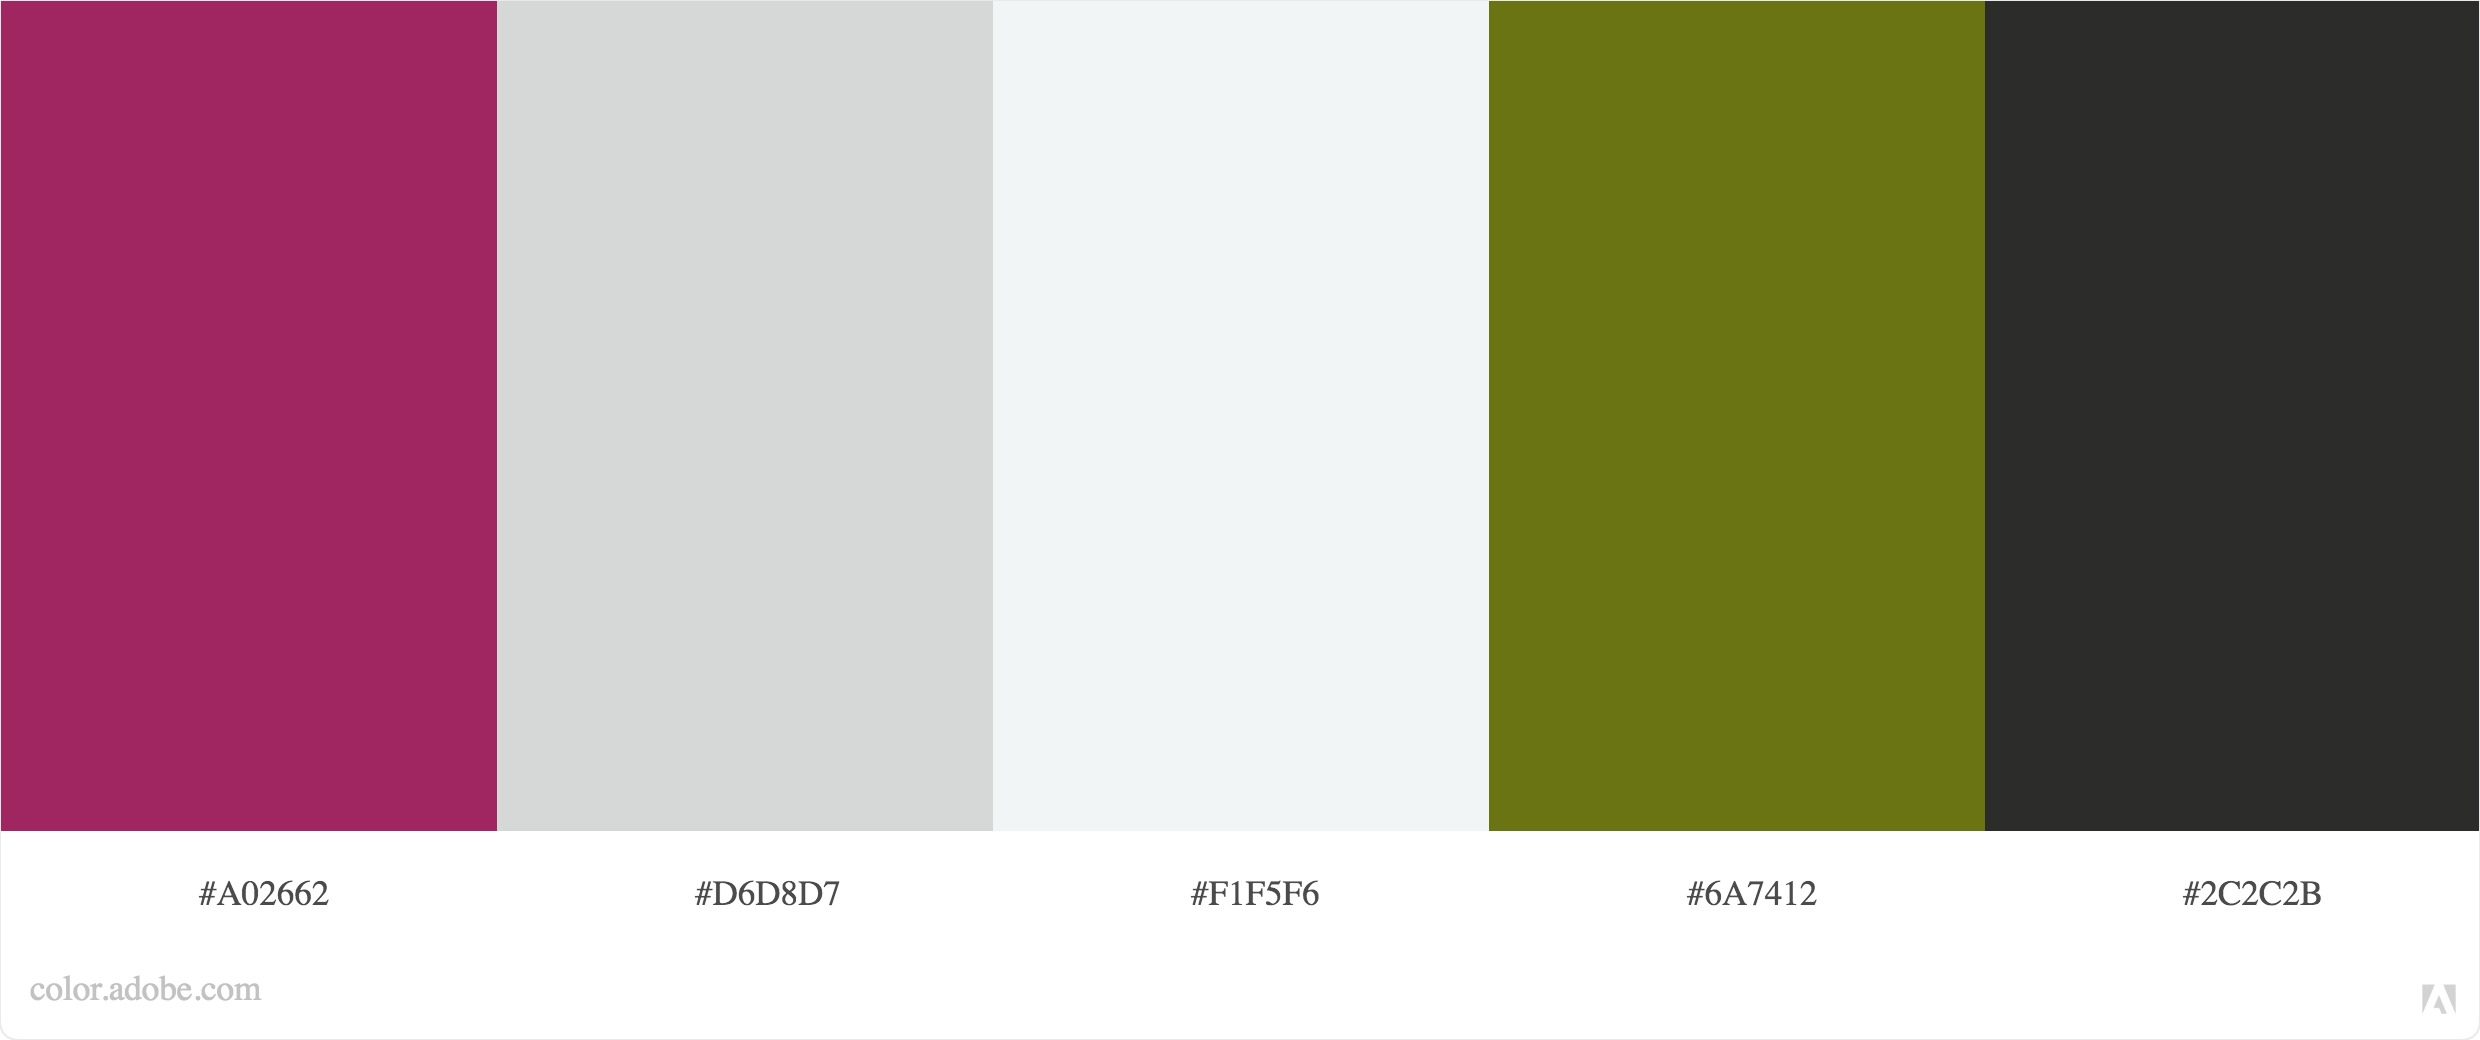
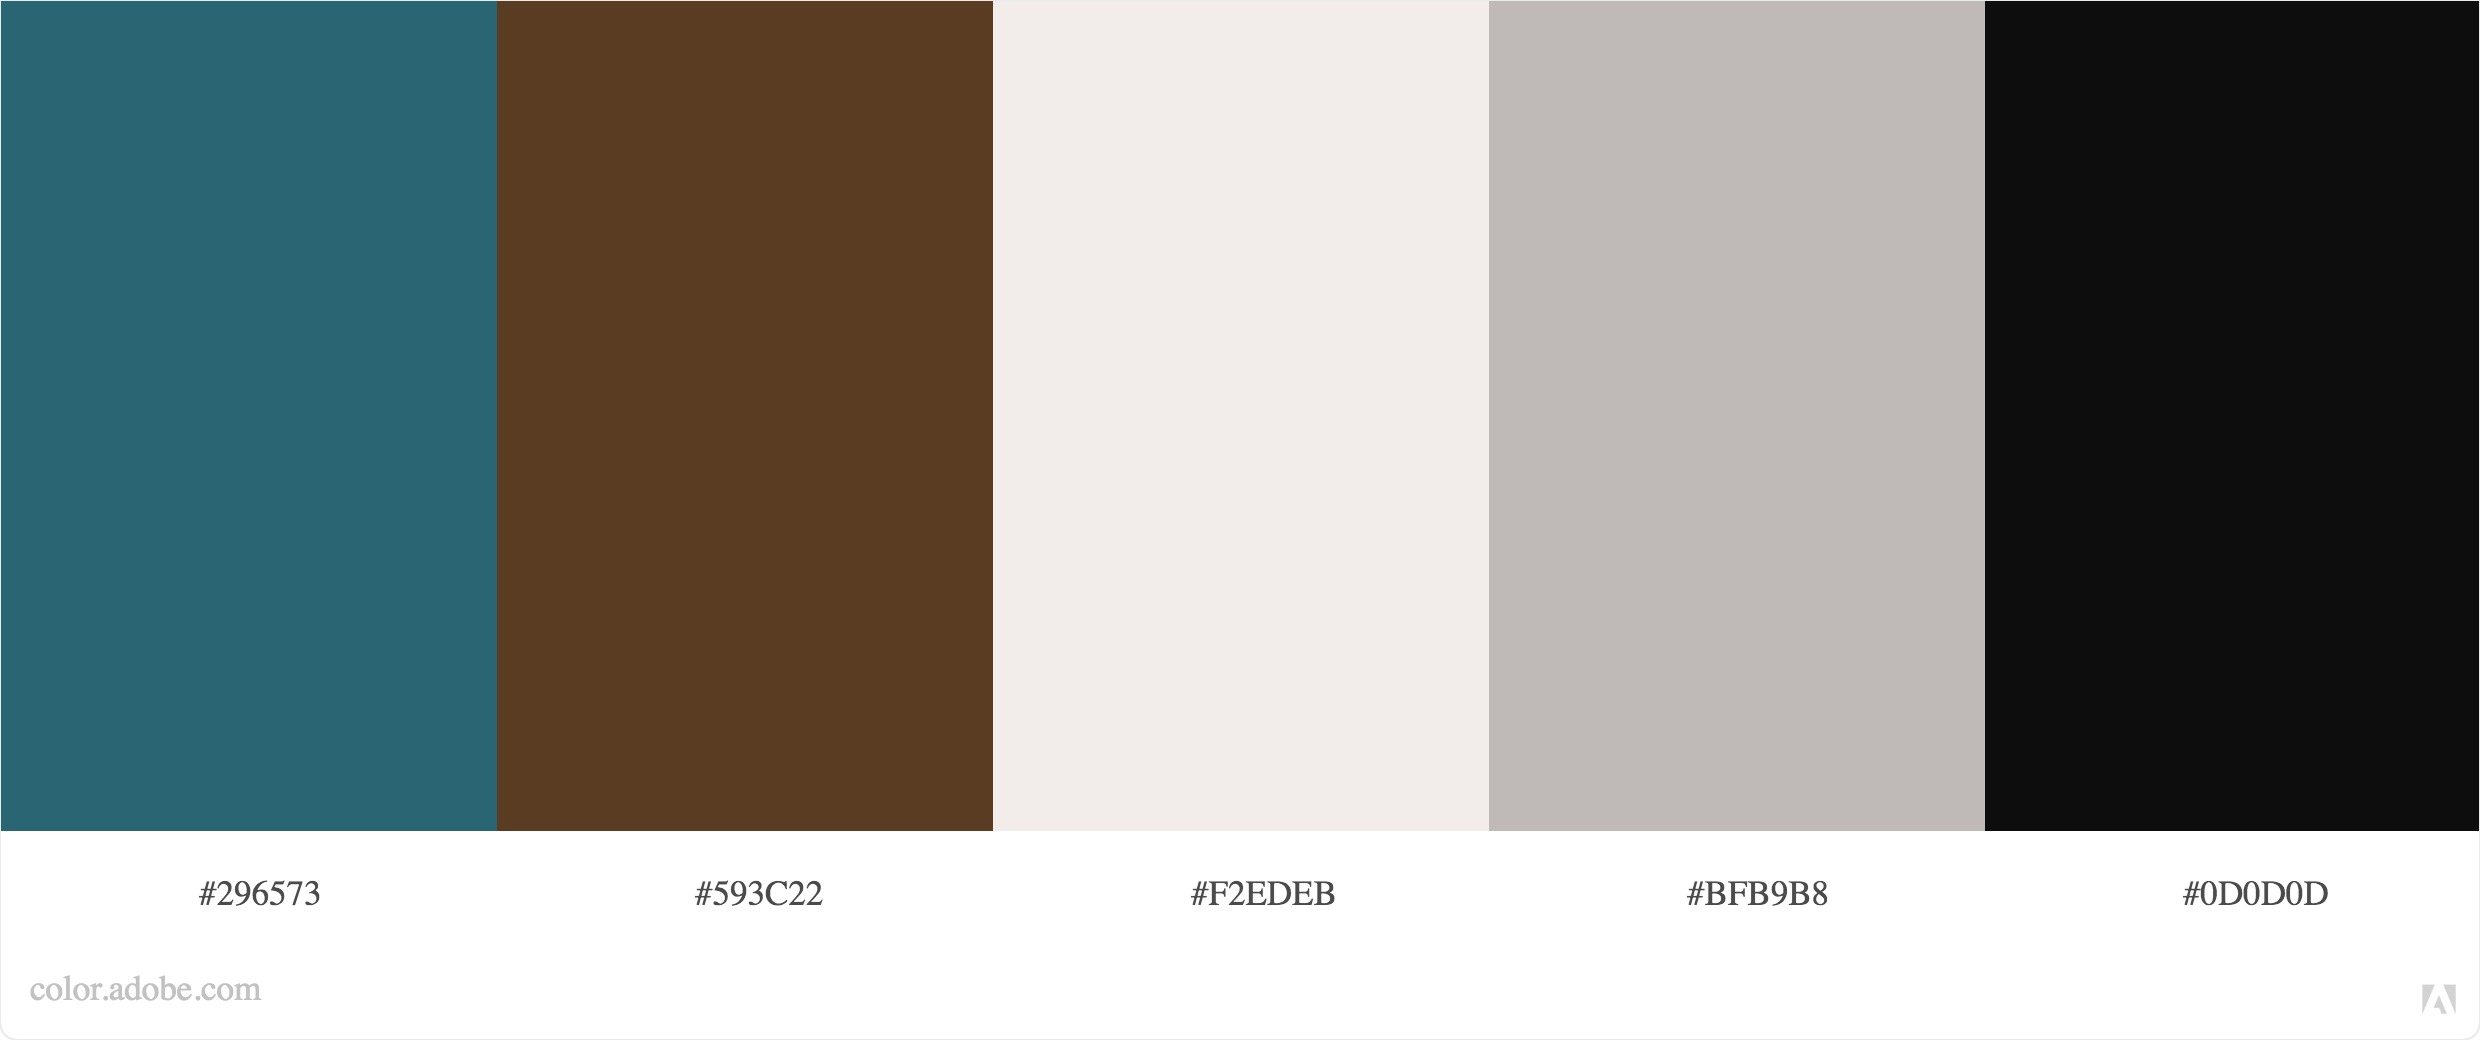
Update index html & css - hero images

diff --git a/index.html b/index.html
@@ -16,7 +16,7 @@
     <link rel="stylesheet" href="https://use.fontawesome.com/releases/v5.15.1/css/all.css"
         integrity="sha384-vp86vTRFVJgpjF9jiIGPEEqYqlDwgyBgEF109VFjmqGmIY/Y4HV4d3Gp2irVfcrp" crossorigin="anonymous">
     <link rel="preconnect" href="https://fonts.gstatic.com">
-    <link href="https://fonts.googleapis.com/css2?family=Open+Sans:wght@300;400&family=Poppins&display=swap"
+    <link href="https://fonts.googleapis.com/css2?family=Open+Sans:wght@300;400;500;600;700;800;900&family=Poppins:wght@300;400;500;600;700;800;900&display=swap"
         rel="stylesheet">
     <link rel="stylesheet" href="./assets/css/style.css">
 </head>
@@ -29,7 +29,7 @@
     bg-light navbar-light  
     -->
     <header class="container-fluid">
-        <nav class="navbar fixed-top navbar-expand-sm bg-grey txt-dark">
+        <nav class="navbar fixed-top navbar-expand-sm bg--dark navbar-dark">
             <div class="container-fluid ">
                 <a href="/" class="navbar-brand">Katsit London</a>
 
@@ -66,14 +66,14 @@
     <section class="container-fluid hero-background">
         <div class="row">
             <div class="col-12">
-                <div class="jumbotron jumbotron-fluid jumbotron-container txt-white">
+                <div class="jumbotron jumbotron-fluid jumbotron-container txt--white">
                     <div class="container">
                         <h3 class="display-5">Katsit London</h3>
-                        <hr class="my-4 bg-white">
+                        <hr class="my-4 bg--white">
                         <p>Professional & Reliable Cat-sitting Services!</p>
                         <p>Arrange a meet & greet to day to get 10% off your next booking</p>
                         <p class="lead">
-                            <a class="btn bg-fushia txt-white" href="#" role="button">Contact us</a>
+                            <a class="btn bg--blue txt--white" href="#" role="button">Contact us</a>
                         </p>
                     </div>
                 </div>
@@ -83,18 +83,18 @@
 
     <section class="container-fluid features">
         <div class="row">
-            <div class="col-12 section-heading txt-fushia">
+            <div class="col-12 section-heading txt--fushia">
                 <h2>Why use Katsit?</h2>
-                <hr class="section-divider bg-fushia">
+                <hr class="section-divider bg--fushia">
             </div>
         </div>
         <div class="row">
             <div class="col-sm-12 col-md-6">
                 <div class="row">
-                    <div class="col-1"><i class="fas fa-paw icon txt-fushia"></i></div>
+                    <div class="col-1"><i class="fas fa-paw icon txt--fushia"></i></div>
                     <div class="col-11">
                         <h4>For the comfort of your cat</h4>
-                        <hr class="bg-dark">
+                        <hr class="bg--fushia">
                         <p>Text here</p>
                     </div>
                 </div>
@@ -102,11 +102,11 @@
             <div class="col-sm-12 col-md-6">
                 <div class="row">
                     <div class="col-1">
-                        <i class="fas fa-paw icon txt-fushia"></i>
+                        <i class="fas fa-paw icon txt--fushia"></i>
                     </div>
                     <div class="col-11">
                         <h4>Offering you piece of mind</h4>
-                        <hr class="bg-dark">
+                        <hr class="bg--fushia">
                         <p>Text here</p>
                     </div>
                 </div>
@@ -114,11 +114,11 @@
             <div class="col-sm-12 col-md-6">
                 <div class="row">
                     <div class="col-1">
-                        <i class="fas fa-paw icon txt-fushia"></i>
+                        <i class="fas fa-paw icon txt--fushia"></i>
                     </div>
                     <div class="col-11">
                         <h4>Pet safe cat sitters</h4>
-                        <hr class="bg-dark">
+                        <hr class="bg--fushia">
                         <p>All our cat sitters are first aid feline qualified, as well as being fully insured and DBS
                             checked.</p>
                     </div>
@@ -127,11 +127,11 @@
             <div class="col-sm-12 col-md-6">
                 <div class="row">
                     <div class="col-1">
-                        <i class="fas fa-paw icon txt-fushia"></i>
+                        <i class="fas fa-paw icon txt--fushia"></i>
                     </div>
                     <div class="col-11">
                         <h4>Passionate about cats</h4>
-                        <hr class="bg-dark">
+                        <hr class="bg--fushia">
                         <p>All of cat sitters are also cat owners have extensive experience in working with cats,
                             volunteering for animal charities.</p>
                     </div>
@@ -140,11 +140,11 @@
         </div>
     </section>
 
-    <section class="container-fluid bg-dark txt-white">
+    <section class="container-fluid bg--blue txt--white">
         <div class="row">
             <div class="col-12 section-heading">
                 <h2>Our services</h2>
-                <hr class="section-divider bg-white">
+                <hr class="section-divider bg--white">
             </div>
         </div>
         <div class="row">
@@ -174,13 +174,17 @@
                 </div>
             </div>
         </div>
+        <div class="row">
+        <div class="col-12">
+        <button class="txt--white buttons b-white">Contact us</button>
+        </div></div>
     </section>
 
     <section class="container-fluid">
         <div class="row">
-            <div class="col-12 section-heading txt-fushia">
+            <div class="col-12 section-heading txt--fushia">
                 <h2>Testimonials</h2>
-                <hr class="section-divider bg-fushia">
+                <hr class="section-divider bg--fushia">
             </div>
         </div>
         <div class="row">
@@ -210,7 +214,7 @@
     </section>
 
 
-    <footer class="container-fluid test">
+    <footer class="container-fluid bg--dark txt--white">
         <div class="row">
             <div class="col-sm-12 col-md-6">
                 <p>Tel. 0208 2901 982</p>

diff --git a/assets/css/style.css b/assets/css/style.css
@@ -2,54 +2,85 @@
 body {
     margin: 0 auto;
     font-family: "Open Sans", sans-serif;
-    color: #2C2C2B;
+    color: #180F0C;
+    /*background-color: #EFEAE7;*/
+    /*background-color: #F1EBEB;*/
+    background-color: #faf9f9;
 }
 
 
-h2, h4 {
+h1, h2, h3, h4 {
 font-family: "Poppins", sans-serif;
+
 }
 
 /* Background colors */
 
-.bg-grey{
-background-color: #D6D8D7;
+.bg--grey{
+background-color: #BFB8B8;
 }
-.bg-dark{
-background-color: #2C2C2B;
+.bg--dark{
+/*background-color: #2C2C2B;*/
+/*background-color: #0D0D0D;*/
+background-color: #180F0C;
 }
-.bg-fushia{
+.bg--brown{
+background-color: #0D0D0D;
+}
+.bg--fushia{
 /*background-color: #A02662;*/
-background-color: #c51281;
+/*background-color: #c51281;*/
+/*background-color: #296573;*/
+/*background-color: #593C22;*/
+/*background-color: #0F5F75;*/
+/*background-color: #7F5833;*/
+background-color: #795729;
 }
-.bg-white{
-background-color: #F1F5F6;
+.bg--blue{
+background-color: #1183a2;
+}
+.bg--white{
+background-color: #faf9f9;
 }
 
 /*Text colors*/
 
 .txt-grey{
-color: #D6D8D7;
+color: #BFB8B8;
 }
-.txt-dark{
-color: #2C2C2B;
+.txt--dark{
+/*color: #2C2C2B;*/
+color: #180F0C;
 }
-.txt-fushia{
+.txt--fushia{
 /*color: #9B0D64;*/
-color: #c51281;
+/*color: #296573;*/
+/*color: #5E4C38;*/
+ /*color: #215F6E;*/
+ /*color: #0e94b5*/
+/*color: #593C22  like colors #faf9f9 #795729 #1183a2*/
+/*color: #7F5833;*/
+color: #795729;
 }
-.txt-white{
-color: #F1F5F6;
+.txt--white{
+color: #faf9f9;
+}
+/*border colors*/
+b-white{
+border-color: #faf9f9;
 }
 
 /*Nav bar*/
-
+navbar-dark{
+color: #faf9f9;
+}
 navbar .navbar-toggler {
   border: 0;
+ 
 }
 
 .navbar a{
-    color: #2C2C2B;
+    color: #faf9f9;
     text-decoration: none;
     text-transform: uppercase;
 }
@@ -69,22 +100,17 @@ border: 1px solid red;
 /*code w3cschool on how to do hero image, changed to linear gradient added to right, changed the rgba transparency*/
 
 .hero-background{
-  height: 100vh;
- background-image: linear-gradient(to right, rgba(0, 0, 0, 0.3), rgba(0, 0, 0, 0.1), rgba(0, 0, 0, 0)), url("../images/cat_hero.jpg");
- background-position: 50% 80%;
+  height: 85vh;
+ background-image: linear-gradient(to right, rgba(0, 0, 0, 0.5), rgba(0, 0, 0, 0.1), rgba(0, 0, 0, 0)), url("../images/cat_hero.jpg");
+ background-position: 80% 85%;
+ 
   background-repeat: no-repeat;
-  /*background-size: cover;*/
-  /*position: relative;*/
-  /*backgroundÏ: url("../images/Cat_hero1.jpg") no-repeat top center fixed;*/
    -webkit-background-size: cover;
   -moz-background-size: cover;
   -o-background-size: cover;
   background-size: cover;
   overflow: hidden;
    position: relative;
-  
-  /*display: flex;
-  align-items: flex-start;*/
 }
 
 .jumbotron-container{
@@ -94,7 +120,6 @@ text-align: center;
 margin: 0;
 padding: 0;
 top: 100px;
-
 }
 
 
@@ -105,7 +130,7 @@ text-align: center;
 padding-top: 30px;
 padding-bottom: 20px;
 text-transform: uppercase;
-font-weight: bold;
+font-weight: bolder;
 }
 
 .section-divider{
@@ -115,16 +140,24 @@ font-weight: bold;
 /*Features section*/
 
 .features{
-padding-left: 40px;
-padding-right: 40px;
+/*padding-left: 40px;
+padding-right: 40px;*/
 margin-bottom: 20px;
 }
 
 .icon{
-font-size: 2.5em;;
+font-size: 25px;
 }
 /*Services section*/
 
+.buttons{
+background-color: transparent;
+border-radius: 5px;
+border: 1px solid;
+padding: 5px 10px 5px 10px;
+margin-top: 20px;
+margin-bottom: 20px;
+}
 /*Testimonials section*/
 
 /*form*/
@@ -135,3 +168,8 @@ max-width: 70%;
 padding-bottom: 30px;
 }
 /*media queries*/
+@media only screen and (max-width: 480px) {
+.hero-background{
+background-position: 90% 0%;
+}
+}
